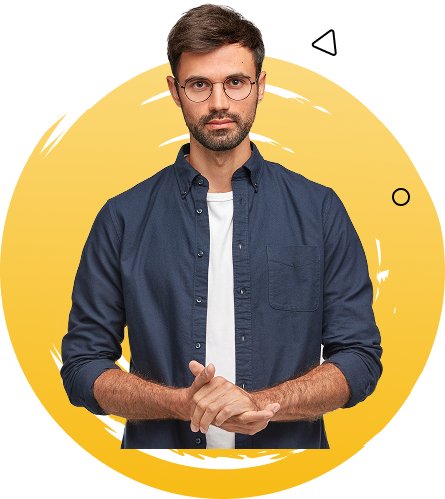
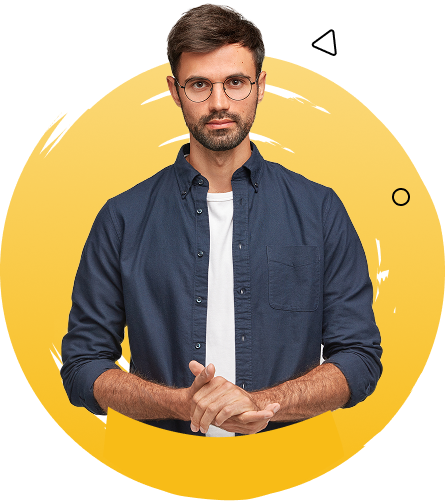
Testimonial & Service Updated _02

diff --git a/index.html b/index.html
@@ -958,7 +958,7 @@
             class="flex flex-wrap items-end justify-center gap-[clamp(15px,1.5vw,25px)]"
           >
             <div
-              class="service-card max-w-87.5 max-[1200px]:max-w-75 max-[835px]:max-w-65 max-[551px]:min-w-full h-105.5 max-[1200px]:h-80 max-[835px]:h-70 max-[551px]:h-max shadow-[0_4px_10px_0_rgba(0,0,0,0.06)] bg-white flex min-[551px]:flex-col min-[551px]:items-center justify-center min-[551px]:text-center rounded-xl font-['Poppins'] px-[clamp(15px,3vw,50px)] max-[551px]:py-11.5 max-[551px]:gap-5"
+              class="service-card max-w-87.5 max-[1200px]:max-w-75 max-[835px]:max-w-65 max-[551px]:min-w-full h-105.5 max-[1200px]:h-80 max-[835px]:h-70 max-[551px]:h-max shadow-[0_4px_10px_0_rgba(0,0,0,0.06)] bg-white flex min-[551px]:flex-col min-[551px]:items-center justify-center min-[551px]:text-center rounded-xl font-['Poppins'] px-[clamp(15px,2.5vw,50px)] max-[551px]:py-7 max-[551px]:gap-5"
             >
               <img
                 src="/public/images/ServiceImg01.png"
@@ -967,7 +967,7 @@
               />
               <div>
                 <h2
-                  class="capitalize font-semibold text-[clamp(16px,4vw,26px)] leading-[180%] text-(--primary-color) min-[551px]:my-[clamp(10px,2vw,25px)] mb-2"
+                  class="capitalize font-semibold text-[clamp(16px,2vw,26px)] leading-[180%] text-(--primary-color) min-[551px]:my-[clamp(10px,2vw,25px)] mb-2"
                 >
                   Creative Design
                 </h2>
@@ -981,7 +981,7 @@
               </div>
             </div>
             <div
-              class="service-card max-w-93 max-[1200px]:max-w-75 max-[835px]:max-w-65 max-[551px]:min-w-full h-112.5 max-[1200px]:h-80 max-[835px]:h-70 max-[551px]:h-max shadow-[0_4px_10px_0_rgba(0,0,0,0.06)] bg-linear-[158.91deg,#fc0_3.12%,#ffe476_94.59%] flex min-[551px]:flex-col min-[551px]:items-center justify-center min-[551px]:text-center rounded-xl font-['Poppins'] px-[clamp(15px,3vw,50px)] max-[551px]:py-11.5 max-[551px]:gap-4"
+              class="service-card max-w-93 max-[1200px]:max-w-75 max-[835px]:max-w-65 max-[551px]:min-w-full h-112.5 max-[1200px]:h-80 max-[835px]:h-70 max-[551px]:h-max shadow-[0_4px_10px_0_rgba(0,0,0,0.06)] bg-linear-[158.91deg,#fc0_3.12%,#ffe476_94.59%] flex min-[551px]:flex-col min-[551px]:items-center justify-center min-[551px]:text-center rounded-xl font-['Poppins'] px-[clamp(15px,2.5vw,50px)] max-[551px]:py-7 max-[551px]:gap-4"
             >
               <img
                 src="/public/images/ServiceImg02.png"
@@ -990,7 +990,7 @@
               />
               <div>
                 <h2
-                  class="capitalize font-semibold text-[clamp(16px,4vw,26px)] leading-[180%] text-(--primary-color) min-[551px]:my-[clamp(10px,2vw,25px)] mb-2"
+                  class="capitalize font-semibold text-[clamp(16px,2vw,26px)] leading-[180%] text-(--primary-color) min-[551px]:my-[clamp(10px,2vw,25px)] mb-2"
                 >
                   UI/UX Design
                 </h2>
@@ -1004,7 +1004,7 @@
               </div>
             </div>
             <div
-              class="service-card max-w-87.5 max-[1200px]:max-w-75 max-[835px]:max-w-65 max-[551px]:min-w-full h-105 max-[1200px]:h-80 max-[835px]:h-70 max-[551px]:h-max shadow-[0_4px_10px_0_rgba(0,0,0,0.06)] bg-white flex min-[551px]:flex-col min-[551px]:items-center justify-center min-[551px]:text-center rounded-xl font-['Poppins'] px-[clamp(15px,3vw,50px)] max-[551px]:py-11.5 max-[551px]:gap-4"
+              class="service-card max-w-87.5 max-[1200px]:max-w-75 max-[835px]:max-w-65 max-[551px]:min-w-full h-105 max-[1200px]:h-80 max-[835px]:h-70 max-[551px]:h-max shadow-[0_4px_10px_0_rgba(0,0,0,0.06)] bg-white flex min-[551px]:flex-col min-[551px]:items-center justify-center min-[551px]:text-center rounded-xl font-['Poppins'] px-[clamp(15px,2.5vw,50px)] max-[551px]:py-7 max-[551px]:gap-4"
             >
               <img
                 src="/public/images/ServiceImg03.png"
@@ -1013,7 +1013,7 @@
               />
               <div>
                 <h2
-                  class="capitalize font-semibold text-[clamp(16px,4vw,26px)] leading-[180%] text-(--primary-color) min-[551px]:my-[clamp(10px,2vw,25px)] mb-2"
+                  class="capitalize font-semibold text-[clamp(16px,2vw,26px)] leading-[180%] text-(--primary-color) min-[551px]:my-[clamp(10px,2vw,25px)] mb-2"
                 >
                   Web Design
                 </h2>
@@ -1050,12 +1050,17 @@
           class="testimonial-card flex flex-wrap gap-[clamp(20px,4vw,100px)] items-center justify-between max-md:justify-center md:mx-10"
         >
           <div
-            class="testimonial-card-img max-w-[clamp(255px,30vw,445px)] w-full"
+            class="testimonial-card-img relative max-w-[clamp(255px,30vw,445px)] w-full"
           >
             <img
               src="./public/images/Testimonial-Image.png"
               alt=""
               class="max-w-full h-auto"
+            />
+            <img
+              src="./public/images/a-rrow-up.png"
+              alt=""
+              class="absolute bottom-[20%] left-[-10%] max-w-[clamp(50px,10vw,85px)] w-full"
             />
           </div>
           <div class="user-feedback text-start md:max-w-[50%]">
@@ -1068,13 +1073,16 @@
               unbelievable reach & appreciation."
             </p>
             <strong
-              class="font-medium text-[clamp(15px,1.5vw,24px)] text-(--primary-color) text-start ml-12.5 flex flex-col mt-[clamp(15px,3vw,30px)]"
+              class="font-medium text-[clamp(15px,1.5vw,24px)] text-(--primary-color) text-start ml-12.5 flex flex-col mt-[clamp(15px,3vw,30px)] relative"
               >Albert Walkers
               <span
                 class="font-normal text-[clamp(12px,1vw,16px)] text-(--paragraph-color) leading-[200%]"
                 >Vivaco Group</span
-              ></strong
-            >
+              >
+              <span
+                class="absolute top-[40%] -left-12 lg:hidden w-10 h-px bg-(--primary-color)"
+              ></span>
+            </strong>
           </div>
         </div>
       </section>
